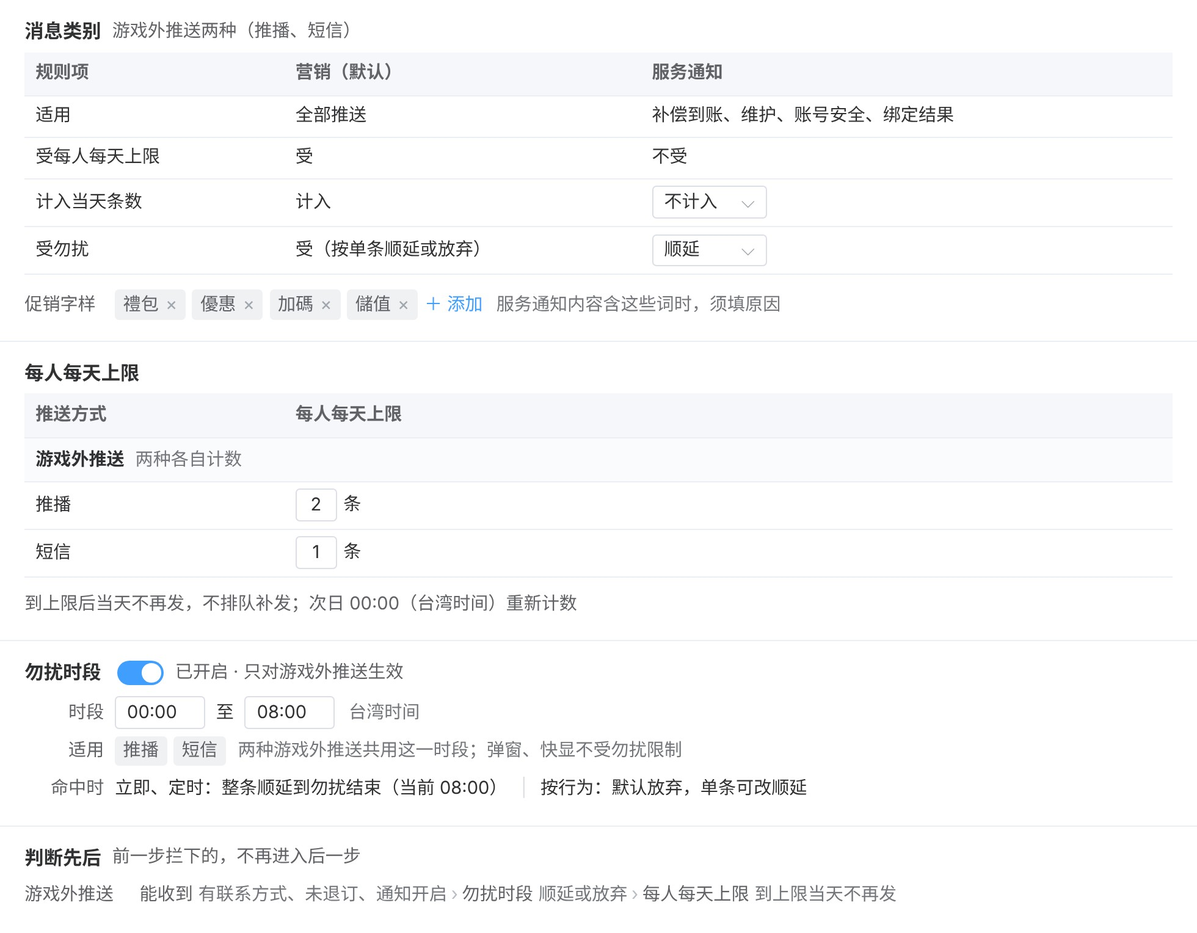
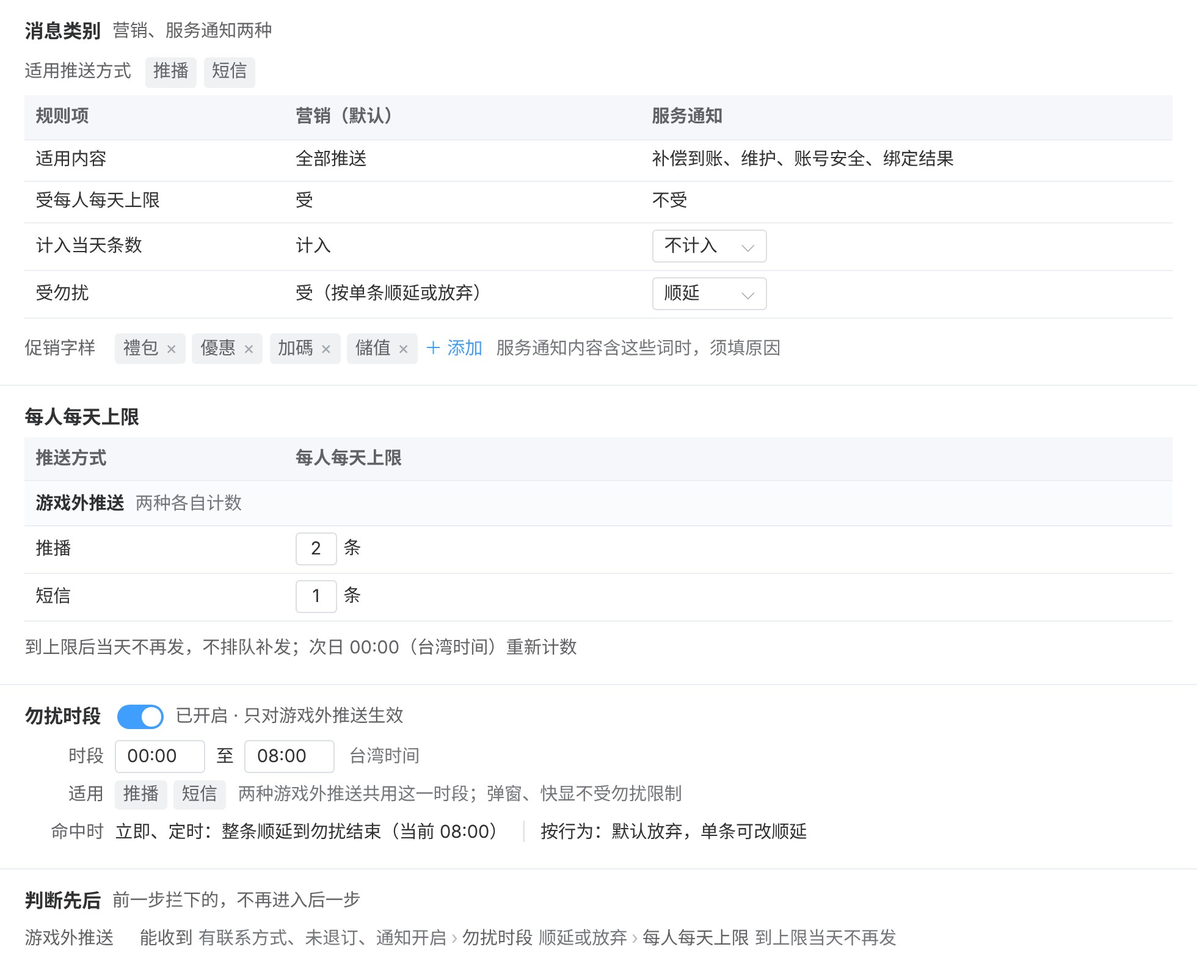
需求评审版第二轮进行中；判例 50、交付前必查第 8 条补充、A91 补三项
Claude-Session: https://claude.ai/code/session_01JtVy4xu4oTwDzwihYuUW45

diff --git a/弹窗标签推送系统/推送系统后台集成需求/需求评审版源.html b/弹窗标签推送系统/推送系统后台集成需求/需求评审版源.html
@@ -92,6 +92,8 @@ table.et td:nth-child(1){white-space:nowrap}
 .amap a.node:hover rect{fill:var(--k)}
 .amap a.node:hover text{fill:#fff}
 .amap a:focus-visible rect{stroke:var(--ink);stroke-width:3}
+.amap .node .tag rect,.amap a.node:hover .tag rect{fill:var(--soft);stroke:#9aa5b1;stroke-width:1}
+.amap .node .tag text,.amap a.node:hover .tag text{font-size:12px;fill:var(--ink2)}
 .amap .ext rect{fill:var(--soft);stroke:#9aa5b1;stroke-width:1.5}
 .amap .en{font-size:16px;font-weight:700}
 .amap .es{font-size:14px;fill:var(--ink2)}
@@ -130,19 +132,19 @@ table.et td:nth-child(1){white-space:nowrap}
   <div class="shots">
     <figure><img src="需求评审版_图/00_后台首页.jpg" alt="后台首页：左侧菜单与概览" style="width:980px"><figcaption>后台首页</figcaption></figure>
   </div>
-  <svg class="amap" viewBox="0 0 980 656" width="980" height="656" aria-label="后台结构图">
+  <svg class="amap" viewBox="0 0 980 674" width="980" height="674" aria-label="后台结构图">
     <defs>
       <marker id="arch-ah" viewBox="0 0 10 10" refX="10" refY="5" markerUnits="userSpaceOnUse" markerWidth="9" markerHeight="9" orient="auto"><path class="ah" d="M0,0 L10,5 L0,10 z"/></marker>
       <clipPath id="arch-k1"><rect x="18" y="144" width="452" height="368" rx="12"/></clipPath>
       <clipPath id="arch-k2"><rect x="510" y="144" width="452" height="368" rx="12"/></clipPath>
-      <clipPath id="arch-k3"><rect x="18" y="532" width="944" height="104" rx="12"/></clipPath>
+      <clipPath id="arch-k3"><rect x="18" y="532" width="944" height="122" rx="12"/></clipPath>
       <clipPath id="arch-g1"><rect x="36" y="246" width="200" height="142" rx="9"/></clipPath>
-      <clipPath id="arch-g3"><rect x="528" y="246" width="200" height="98" rx="9"/></clipPath>
+      <clipPath id="arch-g3"><rect x="528" y="246" width="200" height="118" rx="9"/></clipPath>
     </defs>
     <!-- 框外：会员标签设定（现有后台） -->
     <g class="ext"><rect x="364" y="2" width="252" height="44" rx="8"/><text x="490" y="24" dominant-baseline="central" text-anchor="middle"><tspan class="en">会员标签设定</tspan><tspan class="es">（现有后台）</tspan></text></g>
     <!-- 推送统一后台 -->
-    <rect class="bound" x="1" y="96" width="978" height="558" rx="14"/>
+    <rect class="bound" x="1" y="96" width="978" height="576" rx="14"/>
     <text class="ftitle" x="20" y="120" dominant-baseline="central">推送统一后台</text>
     <!-- 游戏外推送 -->
     <g class="c1">
@@ -161,20 +163,20 @@ table.et td:nth-child(1){white-space:nowrap}
       <rect class="cbg" x="510" y="144" width="452" height="368" rx="12"/><rect class="cband" x="510" y="144" width="452" height="5" clip-path="url(#arch-k2)"/>
       <a class="cname" href="#part2"><text x="528" y="176" dominant-baseline="central">游戏内推送</text></a>
       <text class="csub" x="528" y="201" dominant-baseline="central">玩家在游戏里才看得到</text>
-      <g class="mgrp"><rect class="gbody" x="528" y="246" width="200" height="98" rx="9"/><rect class="gbar" x="528" y="246" width="200" height="40" clip-path="url(#arch-g3)"/><text x="628" y="266" dominant-baseline="central" text-anchor="middle">弹窗</text><rect class="gline" x="528" y="246" width="200" height="98" rx="9"/></g>
-      <a class="node" href="#p6"><rect x="538" y="298" width="180" height="34" rx="8"/><text x="628" y="315" dominant-baseline="central" text-anchor="middle">按玩家分群配置弹窗</text></a>
+      <g class="mgrp"><rect class="gbody" x="528" y="246" width="200" height="118" rx="9"/><rect class="gbar" x="528" y="246" width="200" height="40" clip-path="url(#arch-g3)"/><text x="628" y="266" dominant-baseline="central" text-anchor="middle">弹窗</text><rect class="gline" x="528" y="246" width="200" height="118" rx="9"/></g>
+      <a class="node" href="#p6"><rect x="538" y="298" width="180" height="54" rx="8"/><text x="628" y="316" dominant-baseline="central" text-anchor="middle">按玩家分群配置弹窗</text><g class="tag"><rect x="585" y="328" width="86" height="18" rx="9"/><text x="628" y="337" dominant-baseline="central" text-anchor="middle">现有页面改造</text></g></a>
       <a class="node solo" href="#p9"><rect x="744" y="246" width="200" height="40" rx="8"/><text x="844" y="266" dominant-baseline="central" text-anchor="middle">快显</text></a>
       <a class="node" href="#p7"><rect x="528" y="412" width="416" height="36" rx="8"/><text x="736" y="430" dominant-baseline="central" text-anchor="middle">每人每天弹窗与快显上限</text></a>
       <a class="node" href="#p8"><rect x="528" y="458" width="416" height="36" rx="8"/><text x="736" y="476" dominant-baseline="central" text-anchor="middle">弹窗与快显数据统计</text></a>
     </g>
     <!-- 两类共用 -->
     <g class="c3">
-      <rect class="cbg" x="18" y="532" width="944" height="104" rx="12"/><rect class="cband" x="18" y="532" width="944" height="5" clip-path="url(#arch-k3)"/>
+      <rect class="cbg" x="18" y="532" width="944" height="122" rx="12"/><rect class="cband" x="18" y="532" width="944" height="5" clip-path="url(#arch-k3)"/>
       <a class="cname" href="#part3"><text x="36" y="564" dominant-baseline="central">两类共用</text></a>
-      <a class="node" href="#p10"><rect x="36" y="582" width="215" height="36" rx="8"/><text x="143.5" y="600" dominant-baseline="central" text-anchor="middle">概览</text></a>
-      <a class="node" href="#p11"><rect x="267" y="582" width="215" height="36" rx="8"/><text x="374.5" y="600" dominant-baseline="central" text-anchor="middle">项目目录</text></a>
-      <a class="node" href="#p12"><rect x="498" y="582" width="215" height="36" rx="8"/><text x="605.5" y="600" dominant-baseline="central" text-anchor="middle">玩家查询</text></a>
-      <a class="node" href="#p13"><rect x="729" y="582" width="215" height="36" rx="8"/><text x="836.5" y="600" dominant-baseline="central" text-anchor="middle">操作纪录</text></a>
+      <a class="node" href="#p10"><rect x="36" y="582" width="215" height="54" rx="8"/><text x="143.5" y="609" dominant-baseline="central" text-anchor="middle">概览</text></a>
+      <a class="node" href="#p11"><rect x="267" y="582" width="215" height="54" rx="8"/><text x="374.5" y="609" dominant-baseline="central" text-anchor="middle">项目目录</text></a>
+      <a class="node" href="#p12"><rect x="498" y="582" width="215" height="54" rx="8"/><text x="605.5" y="600" dominant-baseline="central" text-anchor="middle">玩家查询</text><g class="tag"><rect x="562.5" y="612" width="86" height="18" rx="9"/><text x="605.5" y="621" dominant-baseline="central" text-anchor="middle">现有页面改造</text></g></a>
+      <a class="node" href="#p13"><rect x="729" y="582" width="215" height="54" rx="8"/><text x="836.5" y="600" dominant-baseline="central" text-anchor="middle">操作纪录</text><g class="tag"><rect x="793.5" y="612" width="86" height="18" rx="9"/><text x="836.5" y="621" dominant-baseline="central" text-anchor="middle">现有页面改造</text></g></a>
     </g>
     <!-- 标签群组：进入推播、短信、弹窗、快显 -->
     <g class="feed"><path d="M490,46 V222 M136,222 H844"/><path d="M136,222 V246" marker-end="url(#arch-ah)"/><path d="M352,222 V246" marker-end="url(#arch-ah)"/><path d="M628,222 V246" marker-end="url(#arch-ah)"/><path d="M844,222 V246" marker-end="url(#arch-ah)"/><text class="flabel" x="500" y="71" dominant-baseline="central">标签群组</text></g>
@@ -205,7 +207,7 @@ table.et td:nth-child(1){white-space:nowrap}
   <table class="rule">
     <tr><td>现有：在会员标签设定里用会员标签按且、或、排除组合出一组玩家，随标签数据定时更新。</td></tr>
     <tr><td>新增功能：建群组时可在群组之间取交集，如「回流且潜在付费」；每个条件显示人数。</td></tr>
-    <tr><td>新建 6 个标签：<br>· 潜在付费：注册第 7–60 天、从未储值、近 14 天押注合计不低于 20,000（游戏内货币）<br>· 潜在流失两档：近 14 天登录 2–3 天；近 14 天登录 1 天<br>· 近 7 天发生过破产<br>· 新增玩家两档：注册次日未再登录；注册第 3 天未再登录</td></tr>
+    <tr><td>新建 7 个标签：<br>· 潜在付费：注册第 7–60 天、从未储值、近 14 天押注合计不低于 20,000（游戏内货币）<br>· 潜在流失两档：近 14 天登录 2–3 天；近 14 天登录 1 天<br>· 近 7 天发生过破产<br>· 注册后未再登录两档：注册次日未再登录；注册第 3 天未再登录<br>· 随机分桶号：由会员编号和实验名算出的 0–99，每位玩家在同一实验里固定一个号；用来分实验组与对照组（见第 6 页）</td></tr>
     <tr><td>在用的标签群组不能停用或删除；修改在用的群组时，保存前列出受影响的推播、短信、快显和弹窗规则。</td></tr>
   </table>
   <h4 class="rg">发送对象</h4>
@@ -240,7 +242,7 @@ table.et td:nth-child(1){white-space:nowrap}
   </div>
 
   <details class="rules">
-    <summary><span class="rt">业务规则</span><span class="rgs">触发与对象 · 提醒次数与间隔 · 勿扰与在线</span></summary>
+    <summary><span class="rt">业务规则</span><span class="rgs">触发与对象 · 提醒间隔 · 勿扰与在线</span></summary>
     <div class="rbody">
   <h4 class="rg">触发与对象</h4>
   <table class="rule">
@@ -249,11 +251,10 @@ table.et td:nth-child(1){white-space:nowrap}
     <tr><td>生效期间从开始日期起运行；不填结束日期则长期运行。</td></tr>
     <tr><td>发送对象为触发的玩家，可再限定标签群组、加排除群组，规则同第 1 页；确认前显示预计每天触发和发出的人次。</td></tr>
   </table>
-  <h4 class="rg">提醒次数与间隔</h4>
+  <h4 class="rg">提醒间隔</h4>
   <table class="rule">
-    <tr><td>一次触发后最多提醒几次，默认 1 次；同一玩家任意两次提醒之间至少隔几小时，默认 24 小时，不论是否同一次触发。</td></tr>
-    <tr><td>提醒次数大于 1 时，后续提醒在间隔已到、且触发条件仍成立（如礼包仍未购买）时再发。</td></tr>
-    <tr><td>被每人每天上限拦下、勿扰放弃、因玩家在线不发的，不算一次提醒，间隔也不起算；该玩家下一次触发（如下一个礼包快到期）时照常提醒。</td></tr>
+    <tr><td>同一玩家两次提醒之间至少隔几小时，默认 24 小时。</td></tr>
+    <tr><td>被每人每天上限拦下、勿扰放弃、因玩家在线不发的，间隔不起算。</td></tr>
   </table>
   <h4 class="rg">勿扰与在线</h4>
   <table class="rule">
@@ -355,7 +356,7 @@ table.et td:nth-child(1){white-space:nowrap}
   <h4 class="rg">内容与计费</h4>
   <table class="rule">
     <tr><td>内文先选消息类别（营销或服务通知）；输入时显示字数与则数，超出一则时提示；营销短信自动加品牌前缀【會員通知】和退订说明。</td></tr>
-    <tr><td>链接可选外部网页或游戏内页面；外部网页自动换成短链，点击按人记录。</td></tr>
+    <tr><td>链接可选外部网页或游戏内页面；外部网页自动换成短链，统计点击次数。</td></tr>
     <tr><td>按则计费：70 字以内计 1 则；超过 70 字时每 67 字计 1 则。</td></tr>
     <tr><td>品牌前缀和退订说明计入字数。</td></tr>
   </table>
@@ -393,8 +394,8 @@ table.et td:nth-child(1){white-space:nowrap}
     <tr><td>每条规则选弹窗类型（活动类、储值类）和位置：大厅弹窗（进入大厅时自动弹出）、破产弹窗（玩家破产时弹出）；并设每次最多弹出几个。</td></tr>
     <tr><td>弹窗排序是本规则里按先后弹出的清单，清单里的每一项叫排序项，对应一个活动或礼包，先后可调整。</td></tr>
     <tr><td>每个排序项设弹出时机、弹窗次数、是否「弹出后终止本次后续弹窗」、是否不可关闭（玩家须点按钮）；排序项自己的冷却时间沿用现行设置。</td></tr>
-    <tr><td>优先级数字越小越先弹，1 最高。</td></tr>
-    <tr><td>高级设置里设互斥组、实验分组、每人总次数和关闭后冷却（玩家直接关掉本规则的弹窗后，隔多久本规则才再弹）。</td></tr>
+    <tr><td>同一位置、同一类型有多条规则时，优先级数字越小越先被选中，1 最高。</td></tr>
+    <tr><td>高级设置里设互斥组、每人总次数和关闭后冷却（玩家直接关掉本规则的弹窗后，隔多久本规则才再弹）。</td></tr>
   </table>
   <h4 class="rg">对象与预计人数</h4>
   <table class="rule">
@@ -420,7 +421,7 @@ table.et td:nth-child(1){white-space:nowrap}
   </table>
   <h4 class="rg">实验</h4>
   <table class="rule">
-    <tr><td>实验把玩家分成实验组与对照组，每位玩家固定在一组；对照组的玩家可设为改看下一条命中的规则，或不弹。</td></tr>
+    <tr><td>实验组与对照组用标签群组分：按随机分桶号（每位玩家在同一实验里固定的 0–99 号，见第 1 页）建两个群组，如 0–49、50–99，两组各配一条规则，在单条规则数据（第 8 页）里对比。</td></tr>
   </table>
     </div>
   </details>
@@ -436,7 +437,7 @@ table.et td:nth-child(1){white-space:nowrap}
   </div>
 
   <details class="rules">
-    <summary><span class="rt">业务规则</span><span class="rgs">上限 · 判断先后 · 例外</span></summary>
+    <summary><span class="rt">业务规则</span><span class="rgs">上限 · 判断顺序 · 例外</span></summary>
     <div class="rbody">
   <h4 class="rg">上限</h4>
   <table class="rule">
@@ -444,7 +445,7 @@ table.et td:nth-child(1){white-space:nowrap}
     <tr><td>到上限后当天不再弹出或显示，次日 00:00（台湾时间）重新计数。</td></tr>
     <tr><td>被上限截掉的排序项不消耗次数与冷却，之后不补弹。</td></tr>
   </table>
-  <h4 class="rg">判断先后</h4>
+  <h4 class="rg">判断顺序</h4>
   <table class="rule">
     <tr><td>依次判断投放条件（规则的对象、弹出时机、生效期间）、排序项的次数与冷却（沿用现行设置）、每人每天上限；超出上限的排序项被截掉。</td></tr>
   </table>
@@ -467,9 +468,9 @@ table.et td:nth-child(1){white-space:nowrap}
   </div>
 
   <details class="rules">
-    <summary><span class="rt">业务规则</span><span class="rgs">整个位置 · 单条规则 · 改动与发版</span></summary>
+    <summary><span class="rt">业务规则</span><span class="rgs">按位置 · 单条规则 · 改动与发版</span></summary>
     <div class="rbody">
-  <h4 class="rg">整个位置</h4>
+  <h4 class="rg">按位置</h4>
   <table class="rule">
     <tr><td>按位置统计大厅弹窗、破产弹窗、快显的曝光人数、曝光、点击、点击率，与前一个同样长度的周期对比；合计行的曝光人数按玩家去重。</td></tr>
     <tr><td>每个位置一张趋势图，按日显示曝光与点击率；图上标出这个位置上所有规则的改动和客户端发版。</td></tr>
@@ -480,7 +481,7 @@ table.et td:nth-child(1){white-space:nowrap}
     <tr><td>漏斗：一条规则从目标人数、进入弹窗位置、符合条件、曝光到点击，每一步少了多少。</td></tr>
     <tr><td>趋势图按日显示这条规则的曝光与点击率，图上标出这条规则每一次保存的改动和客户端发版；相邻两次改动之间画出这段时间的平均点击率。</td></tr>
     <tr><td>点击后 24 小时内的领取、购买，按来源弹窗规则记录；只作参考，不画进漏斗。<span class="why">领取、购买还受弹窗以外的因素影响。</span></td></tr>
-    <tr><td>可拆分：按排序项、按人群、按平台、按实验组与对照组。</td></tr>
+    <tr><td>可拆分：按排序项、按人群、按平台。</td></tr>
   </table>
   <h4 class="rg">改动与发版</h4>
   <table class="rule">
@@ -511,7 +512,7 @@ table.et td:nth-child(1){white-space:nowrap}
   </table>
   <h4 class="rg">发送时间</h4>
   <table class="rule">
-    <tr><td>立即、定时或按行为；按行为的触发行为、提醒次数与间隔同第 2 页。</td></tr>
+    <tr><td>立即、定时或按行为；按行为的触发行为与提醒间隔同第 2 页。</td></tr>
   </table>
     </div>
   </details>
@@ -550,6 +551,8 @@ table.et td:nth-child(1){white-space:nowrap}
   <h4 class="rg">指标算法</h4>
   <table class="rule">
     <tr><td>游戏外推送从发送算起，点击率＝点击÷发送；游戏内推送从曝光算起，点击率＝点击÷曝光；两层分开统计。</td></tr>
+    <tr><td>到达率＝到达÷可确认到达的发送，iOS 未接入的部分不进分母（见第 4 页）。</td></tr>
+    <tr><td>人均每天收到几条＝当天收到推播或短信的玩家平均每人收到几条；人均每天弹窗曝光几个＝当天看到弹窗的玩家平均每人看到几个；都取所选期间每天的平均。</td></tr>
   </table>
     </div>
   </details>
@@ -595,7 +598,7 @@ table.et td:nth-child(1){white-space:nowrap}
   </div>
 
   <details class="rules">
-    <summary><span class="rt">业务规则</span><span class="rgs">查询与结果 · 原有页面</span></summary>
+    <summary><span class="rt">业务规则</span><span class="rgs">查询与结果 · 现有页面移入</span></summary>
     <div class="rbody">
   <h4 class="rg">查询与结果</h4>
   <table class="rule">
@@ -603,7 +606,7 @@ table.et td:nth-child(1){white-space:nowrap}
     <tr><td>推播、短信、弹窗、快显各自能否收到，不能时写原因（如通知关闭、没有手机号）；今天已收几条、上限多少、最近一次收到的时间。</td></tr>
     <tr><td>近 30 天推播、短信、快显的每一条和每次弹窗的结果与原因，如被每人每天上限拦下时写明名额被哪几条占用；弹窗可展开看每个排序项弹没弹。</td></tr>
   </table>
-  <h4 class="rg">原有页面</h4>
+  <h4 class="rg">现有页面移入</h4>
   <table class="rule">
     <tr><td>现有「玩家弹窗顺序查询」整页移入，并扩展为推播、短信、弹窗、快显四种推送的查询。</td></tr>
   </table>

diff --git a/弹窗标签推送系统/推送系统后台集成需求/需求评审版_原型/04_上限勿扰.html b/弹窗标签推送系统/推送系统后台集成需求/需求评审版_原型/04_上限勿扰.html
@@ -17,11 +17,12 @@ body{font-family:"Inter","Noto Sans CJK SC","PingFang SC","Microsoft YaHei",sans
 <body>
 <div class="shot" style="width:980px"><div class="z"><div class="win"><div class="fig">
   <div class="sec" style="padding:12px 18px 12px">
-    <div class="sh" style="height:auto;min-height:22px;flex-wrap:wrap;row-gap:2px">消息类别<span style="font-weight:400;font-size:13px;color:var(--ink2)">游戏外推送两种（推播、短信）</span></div>
+    <div class="sh" style="height:auto;min-height:22px;flex-wrap:wrap;row-gap:2px">消息类别<span style="font-weight:400;font-size:13px;color:var(--ink2)">营销、服务通知两种</span></div>
+    <div class="f" style="height:30px"><label style="width:auto;padding-right:10px;color:var(--ink2)">适用推送方式</label><span class="tg nx">推播</span><span class="tg nx">短信</span></div>
     <table class="tb" style="margin-top:2px">
       <colgroup><col style="width:190px"><col><col></colgroup>
       <tr><th>规则项</th><th>营销（默认）</th><th>服务通知</th></tr>
-      <tr><td>适用</td><td>全部推送</td><td>补偿到账、维护、账号安全、绑定结果</td></tr>
+      <tr><td>适用内容</td><td>全部推送</td><td>补偿到账、维护、账号安全、绑定结果</td></tr>
       <tr><td>受每人每天上限</td><td>受</td><td>不受</td></tr>
       <tr><td>计入当天条数</td><td>计入</td><td><span class="in" style="width:84px">不计入<span class="dn">⌵</span></span></td></tr>
       <tr><td>受勿扰</td><td>受（按单条顺延或放弃）</td><td><span class="in" style="width:84px">顺延<span class="dn">⌵</span></span></td></tr>

diff --git a/弹窗标签推送系统/推送系统后台集成需求/需求评审版_原型/03_按行为.html b/弹窗标签推送系统/推送系统后台集成需求/需求评审版_原型/03_按行为.html
@@ -23,7 +23,7 @@ body{font-family:"Inter","Noto Sans CJK SC","PingFang SC","Microsoft YaHei",sans
         <div class="f"><label style="width:78px">触发条件</label>礼包剩余<span class="num">2</span>小时时发送</div>
         <div class="f" style="padding-left:78px"><span class="ck">✓</span>只发给尚未购买该礼包的玩家</div>
         <div class="f"><label style="width:78px">生效期间</label><span class="in" style="width:104px">2026-10-02</span><span style="margin:0 8px">至</span><span class="in ph" style="width:104px">结束（选填）</span><span class="mute" style="margin-left:8px">不填则长期运行</span></div>
-        <div class="f"><label style="width:78px">提醒次数</label>每次触发最多提醒<span class="num">1</span>次，同一玩家两次提醒至少间隔<span class="num">24</span>小时</div>
+        <div class="f"><label style="width:78px">提醒间隔</label>同一玩家两次提醒至少间隔<span class="num">24</span>小时</div>
         <div class="f"><label style="width:78px">勿扰时段</label>00:00–08:00　命中时<span class="in" style="margin-left:8px;width:110px">放弃发送<span class="dn">⌵</span></span></div>
         <div class="f"><label style="width:78px">玩家在线</label><span class="in" style="width:110px">照发<span class="dn">⌵</span></span><span class="mute" style="margin-left:8px">另一选项：不发（由游戏内承接）</span></div>
       </div>

diff --git a/弹窗标签推送系统/推送系统后台集成需求/需求评审版_原型/17_快显.html b/弹窗标签推送系统/推送系统后台集成需求/需求评审版_原型/17_快显.html
@@ -44,7 +44,7 @@ body{font-family:"Inter","Noto Sans CJK SC","PingFang SC","Microsoft YaHei",sans
     <div class="sh" style="height:28px">发送时间<span class="seg" style="margin-left:12px;font-weight:400"><span style="border-radius:3px 0 0 3px">立即</span><span style="border-radius:0">定时</span><span class="on" style="border-radius:0 3px 3px 0">按行为</span></span></div>
     <div class="f"><label style="width:70px"><span class="rq">*</span>触发行为</label><span class="in" style="width:180px">通行证升级<span class="dn">⌵</span></span><span style="margin:0 8px 0 24px;color:var(--ink2)">生效期间</span><span class="in" style="width:220px">2026-10-03　至　2026-12-31</span></div>
     <div class="f"><label style="width:70px">触发条件</label>升级时等级不超过<span class="num">20</span></div>
-    <div class="f"><label style="width:70px">提醒次数</label>每次触发最多提醒<span class="num">1</span>次，同一玩家两次提醒至少间隔<span class="num">24</span>小时</div>
+    <div class="f"><label style="width:70px">提醒间隔</label>同一玩家两次提醒至少间隔<span class="num">24</span>小时</div>
     <div class="f"><label style="width:70px">勿扰时段</label><span style="color:var(--ink2)">不适用：游戏内推送不受勿扰时段限制</span></div>
   </div>
 

diff --git a/弹窗标签推送系统/推送系统后台集成需求/需求评审版_原型/11_保存确认.html b/弹窗标签推送系统/推送系统后台集成需求/需求评审版_原型/11_保存确认.html
@@ -24,7 +24,7 @@ body{font-family:"Inter","Noto Sans CJK SC","PingFang SC","Microsoft YaHei",sans
         <div style="font-size:16px;font-weight:700;color:var(--ink);margin:2px 0 4px">预计 2,510 人</div>
         <table class="tb" style="margin-top:4px">
           <tr><th>重叠的上架规则</th><th style="text-align:right">人数</th><th style="white-space:nowrap">这些人弹</th></tr>
-          <tr><td>12 活动类·新增玩家<span class="mute">　优先级 1</span></td><td style="text-align:right">610</td><td style="white-space:nowrap">规则 12</td></tr>
+          <tr><td>12 活动类·注册后未再登录<span class="mute">　优先级 1</span></td><td style="text-align:right">610</td><td style="white-space:nowrap">规则 12</td></tr>
           <tr><td>13 活动类·回流<span class="mute">　优先级 2</span></td><td style="text-align:right">1,320</td><td style="white-space:nowrap">规则 13</td></tr>
           <tr><td>14 活动类·潜在流失<span class="mute">　优先级 3</span></td><td style="text-align:right">420</td><td style="white-space:nowrap">规则 14</td></tr>
           <tr><td>5 活动类·其余<span class="mute">　优先级 4 → 5</span></td><td style="text-align:right">2,510</td><td style="white-space:nowrap;font-weight:600">本规则</td></tr>

diff --git a/弹窗标签推送系统/分析/A91_评审版功能成本收益.md b/弹窗标签推送系统/分析/A91_评审版功能成本收益.md
@@ -4,7 +4,7 @@
 依据：Dk 10/20「功能的成本与收益是不是合理的，原型设计里需要考虑清楚。比如恢复版本1的设置，这个功能我不知道成本如何，你可以自行评估」「所有的后台功能都是按照是否值得来确定设计的」；写作标准第 172 行「每个功能先问：现实中谁做、做几次、开发要多久，再与人工做法比较；一次性的工作、人工几分钟能做完的事，不做成功能。按个案判断，不设硬线」；交付前必查第 8 条。
 开发量是我方按同类后台估的量级（小：约 2 人日内；中：约 3–10 人日；大：10 人日以上），不是研发估时；研发评审时以研发估时为准。本文件是决定记录，不进评审材料（评审材料只写留下的功能，不写取舍）。
 
-## 一、改掉或换掉的（8 项）
+## 一、改掉或换掉的（11 项）
 
 | 功能（现稿位置） | 谁用、多常用 | 开发量 | 人工做法或更便宜的做法 | 结论 |
 |---|---|---|---|---|
@@ -13,10 +13,13 @@
 | 改动前后对比（第 8 页「选操作纪录里的一次改动，对比改动前后几天」） | 同上，看某次改动的效果 | 中：选改动、取前后窗口、对比表 | 同一张趋势图上已标出这个位置所有规则的改动，改动前后的走势直接看得到 | **换**，并入整个位置的趋势图 |
 | 同期发版时提示不能单独归因（第 8 页） | 同上 | 小到中：要判断同期有哪些发版与改动 | 发版也画成趋势图上的标记，同期有没有别的变化一眼看到 | **换**，发版作为趋势图标记 |
 | 按规则版本、客户端版本分开看数据（第 8 页「版本」第二条） | 同上 | 中：数据按两种版本另做聚合 | 趋势图上的改动与发版标记把时间分成段，每段平均值已画出 | **删**分开看；旧数据照样保留 |
-| 单条规则的 7 种拆分（第 8 页：按日、按小时、按平台与设备、按客户端版本、按人群、按实验组与对照组、按排序项） | 运营调规则 | 每多一种拆分多一份聚合与一个页签 | 按日 → 趋势图；按排序项（调先后顺序要看）、按人群（核心①「数据……按人群、按单条」，Dk 10/18 定的核心）、实验组与对照组（有实验才能看出真实效果）、按平台（某一端显示失败时要看）留下；按小时（弹窗在进入大厅、破产时弹，不按时段设置）、按客户端版本（发版已是趋势图标记）用得少，需要时请数据组查 | **减为 4 种**：按排序项、按人群、按平台、实验组与对照组 |
+| 单条规则的 7 种拆分（第 8 页：按日、按小时、按平台与设备、按客户端版本、按人群、按实验组与对照组、按排序项） | 运营调规则 | 每多一种拆分多一份聚合与一个页签 | 按日 → 趋势图；按排序项（调先后顺序要看）、按人群（核心①「数据……按人群、按单条」，Dk 10/18 定的核心）、按平台（某一端显示失败时要看）留下；按小时（弹窗在进入大厅、破产时弹，不按时段设置）、按客户端版本（发版已是趋势图标记）用得少，需要时请数据组查 | **减为 3 种**：按排序项、按人群、按平台（实验组与对照组见下面「内置实验分组」一行） |
 | 重叠规则「每天互相接替的人数」（第 6 页重叠一条；截图 11「接替（日均）」） | 运营保存弹窗规则时 | 大：要按每位玩家一天的弹出过程模拟，跨全部同位置规则 | 重叠人数与这些人弹哪一条已足够判断要不要加排除群组；接替的人数运营看了也难判断怎么改 | **删**接替人数，留重叠人数与弹哪一条 |
 | 保存确认里「多截掉的项目个数」（截图 11「多截掉 420 项」） | 同上 | 大：要模拟全部规则在每人每天上限下的截断 | 弹窗与快显数据统计页已有每天多少人碰到上限（第 8 页）；上限设置页可调 | **删** |
 | 项目改期时逐条选「平移或保持」与「全部平移」（第 11 页改期联动第一条，截图 18） | 运营改活动起止时间；少见，估计每月几次，每次牵动几条推送与弹窗 | 中：逐条选项、批量平移、已发出的不能平移等校验 | 按相对活动时间设的推送本来就自动跟随；写成具体时刻的，确认框里逐条列出并带「去修改」，运营逐条改，每条一分钟左右 | **改**为只列出受影响的推送与弹窗规则：相对时间的自动跟随，具体时刻的标出由运营逐条改 |
+| 一次触发后多次提醒（第 2 页「一次触发后最多提醒几次」及后续提醒规则；第 9 页快显同） | 运营配按行为推送；如礼包快到期提醒两次 | 中：每次触发要存状态、到时重判条件、排队发送 | 另建一条触发条件不同的按行为推送（如礼包剩 12 小时、剩 2 小时各一条），配置几分钟，文案还能各写各的 | **删**，只留「同一玩家两次提醒至少隔几小时」（审读 10/20 下午提出，主对话核定） |
+| 弹窗规则里内置实验分组（第 6 页「高级设置里设……实验分组」「对照组可设为改看下一条或不弹」；数据拆分「实验组与对照组」） | 要确定改动效果时；少见 | 中到大：实验实体、分组、对照组处理、分组对比页 | 设计主线 10/19 已定系统标签「随机分桶号」（会员编号与实验名计算 0–99，会员编号尾数有偏差不用）：用它建两个标签群组作实验组与对照组，两组各配一条规则，用单条规则数据对比；截图 10、14 本来就是这么画的 | **删**内置实验，改为用随机分桶号标签群组分组；数据拆分去掉「实验组与对照组」（审读提出，主对话核定） |
+| 短信外部链接点击按人记录（第 5 页「点击按人记录」） | 每条营销短信 | 中：每位收件人生成不同短链并回传 | 短信效果按发送后 24 小时内登录判定（已定事项第 3 条），玩家多直接开游戏不点链接；短链服务自带点击总数 | **改**为只统计点击次数（审读提出，主对话核定） |
 
 ## 二、留下的（逐个三问）
 
@@ -30,7 +33,7 @@
 | 1 | 多群组取并集去重、排除群组、固定与默认排除 | 每次发送 | 小 | 无 | 留 |
 | 1 | 确认前逐层显示预计发出 | 每次发送 | 中 | 无 | 留，改为分层条形图 |
 | 1 | 测试账号先发、发给全部玩家多一步核对、发送中可停止 | 每次发送 | 小 | 无 | 留 |
-| 2 | 6 种触发行为、触发条件、生效期间、提醒次数与间隔、勿扰与在线的处理 | 运营配自动推送 | 中到大（核心功能） | 现在写死在服务端，改要发版 | 留 |
+| 2 | 6 种触发行为、触发条件、生效期间、提醒间隔、勿扰与在线的处理 | 运营配自动推送 | 中到大（核心功能） | 现在写死在服务端，改要发版 | 留 |
 | 2 | 预计每天触发与发出人次 | 新建按行为推送时 | 中：按历史事件数估 | 请数据组查，等几小时 | 留 |
 | 2 | 选了在线不发、又没有同事件快显或弹窗时保存提示 | 新建按行为推送时 | 小：按触发行为与所属活动查 | 运营自己检查，容易漏 | 留 |
 | 3 | 消息类别、每人每天上限、勿扰、单条例外须填原因、促销字样发服务通知须填原因 | 设置一次，单条例外偶尔 | 小到中 | 无 | 留 |
@@ -41,7 +44,6 @@
 | 5 | 字数与则数、品牌前缀与退订、短链、确认前人数与则数 | 每次发短信 | 小到中 | 无 | 留 |
 | 6 | 规则类型与位置、弹窗排序、排序项设置、优先级 | 每次配弹窗（现有功能搬入） | 小 | — | 留 |
 | 6 | 互斥组、每人总次数、关闭后冷却 | 配弹窗时；核心②「弹窗先后与互斥、不重复打扰」（Dk 10/18） | 中 | 无 | 留 |
-| 6 | 实验组与对照组 | 要确定改动效果时 | 中到大 | 无（趋势图标记只能看出前后变化，不能单独归因） | 留 |
 | 6 | 预计人数、注明固定排除约多少人 | 每次配弹窗 | 中 | 无 | 留 |
 | 6 | 重叠人数与这些人弹哪一条 | 每次保存 | 中：按群组交集算 | 运营自己比对群组，难 | 留 |
 | 6 | 当天快显提示过的同一活动或礼包跳过 | 自动 | 中 | 无 | 留（不重复打扰） |

diff --git a/弹窗标签推送系统/规则与交接/交付前必查.md b/弹窗标签推送系统/规则与交接/交付前必查.md
@@ -15,7 +15,7 @@
 | 5 | **篇幅**：〔规则与交接/写作标准_合并版.md:62〕「首层（结论、问题标题、核心卡）3 分钟内读完；正文 5 分钟读完、掌握 80%，不含折叠区和附录；需求文档、规划表、附录不受时长限制」；读者可用时间见记忆 size-deliverables-to-reader-time | 写作标准第 62 行；记忆 size-deliverables-to-reader-time | 写明读者与可用时间；`python3 _scripts/an_可读字数.py` 量可读字数 |
 | 6 | **阅读体验优先**：〔规则与交接/写作标准_合并版.md:50〕「阅读体验优先于精简篇幅：精简没错，但不能精简到牺牲阅读体验，这是界限」 | 写作标准第 50 行；Dk 10/19 | 同第 1、3 条的读者测试 |
 | 7 | **读者最先看的地方**（检查做法）：首屏、各级标题、标题下第一行、页头、结尾这几处，按第 1–4 条逐处查 | 判例 46、47；Dk 10/19「你需要确保没有这样的漏洞发生」 | `python3 _scripts/an_读者要读的.py <成品> <摘录.md>` 抽出这几处（一般一两千字）；派一位无上下文读者（model: "sonnet"）对照判例逐项找问题；主对话发给 Dk 前自己读这份摘录 |
-| 8 | **每个功能先问**（需求、设计类材料）：〔规则与交接/写作标准_合并版.md:172〕「每个功能先问：现实中谁做、做几次、开发要多久，再与人工做法比较；一次性的工作、人工几分钟能做完的事，不做成功能。按个案判断，不设硬线」 | 写作标准第 172 行；判例 48；Dk 10/19（答复登记「写死内容迁移不做成后台功能」） | 列出材料里的每个功能，逐个写出这三问的答案和人工做法；写不出开发成本与人工做法对比的，补上或删去该功能 |
+| 8 | **每个功能先问**（需求、设计类材料）：〔规则与交接/写作标准_合并版.md:172〕「每个功能先问：现实中谁做、做几次、开发要多久，再与人工做法比较；一次性的工作、人工几分钟能做完的事，不做成功能。按个案判断，不设硬线」 | 写作标准第 172 行；判例 48、50；Dk 10/19（答复登记「写死内容迁移不做成后台功能」）；Dk 10/20（任务清单第 268 行） | 列出材料里的每个功能，逐个写出这三问的答案和人工做法；写不出开发成本与人工做法对比的，补上或删去该功能；审读列出的疑似不值得做的功能，主对话交付前逐个定结论并写进决定记录，不留「待判」（判例 50） |
 | 9 | **样章关卡**（检查做法，铺开全稿之前做）：由没写稿、也没写任务说明的子任务核对，只给它写作标准原文、对应类型卡（`类型卡/`）、相关 Dk 原话和样章，不给研究建议与任务说明；它对类型卡「必须做到」「不写」两节逐条写过／不过，不过的引出样章原文。不过项主对话不能否决，除非引出 Dk 原话（注答复登记日期）。第 1、3 条的读者测试另做，看得懂不能代替这一项 | `分析/根因_未按要求写_1019.md`（10/19 样章只测看懂，「取舍」块被读者复述出来反而算通过）；判例 40 与矫枉过正记录第 10 行（审读查出的问题被主对话否决） | 审读回报逐条「过／不过（样章原文）」；有不过项，改完再核一次，过了才铺开全稿；全稿完成后本清单第 1–8 条再跑一遍 |
 
 交付时在回报里逐条写「过／不过（证据）」。主对话发给 Dk 前，亲自核第 1 条的读者测试结果、第 9 条的样章核对结果，并自己读第 7 条的摘录。写给子任务的要求只写要达到的效果，不写要加进材料的具体句子，免得被照字面加进去（判例 47）。

diff --git a/弹窗标签推送系统/分析/需求评审版_改版记录.md b/弹窗标签推送系统/分析/需求评审版_改版记录.md
@@ -35,6 +35,16 @@
 
 核对员反馈后补改（只动 18a、19 的源文件与 jpg，18 无需改）：① 18a 万圣节榜「被引用」3 → 5，与 18 列出的 5 项一致；② 19 名额占用写成名称「限时加码礼包未购买提醒（09:30）」，不再只写编号 31；③ 19 下方近 30 天记录补一行 10/12 12:00 快显「通行证升级提示」已显示，与上表快显「最近一次收到 12:00、已显示 1／3 次」对上；④ 19 上表短信行由「有手机号」改为「不能收到：手机号已停用（10/12 10:00 短信服务商退回）」，与下方记录一致，最近一次收到仍为 10/09 19:00（停用之前）。上面 18a「数字同旧图」、19 的差异说明以本条为准。
 
+第二轮（照 A91 第一节新加的三行与主对话的第二轮指示，只动 03、04、11、17 的源文件与 jpg）：
+- 03_按行为：「提醒次数　每次触发最多提醒 1 次，同一玩家两次提醒至少间隔 24 小时」→「提醒间隔　同一玩家两次提醒至少间隔 24 小时」，不再有每次触发最多提醒几次。
+- 17_快显：同 03，改为「提醒间隔　同一玩家两次提醒至少间隔 24 小时」。
+- 04_上限勿扰：标题「消息类别　游戏外推送两种（推播、短信）」→「消息类别　营销、服务通知两种」，下面另起一行「适用推送方式　推播　短信」；表里行名「适用」→「适用内容」，避免和推送方式混。
+- 11_保存确认：规则 12 的名称「活动类·新增玩家」→「活动类·注册后未再登录」，不会被读成全部新玩家（对应正文新标签「新增玩家两档」改名后的叫法，具体用哪个名字以正文为准，要改只改这一处再重截）。
+- 10_规则编辑：本来就没有「实验分组」，高级设置只写「已设 2 项（每人总次数、关闭后冷却）」，不用改；「潜在流失·实验组」是标签群组名，按指示保留。
+- 16_短信：图里没有「按人记录」，不用改。01、02：没有「新增玩家两档」这类标签名，也没有「随机分桶号」，不用改。
+- 12 个源文件 grep「提醒次数、最多提醒、实验分组、按人记录、新增玩家、随机分桶」均为 0。
+- 不在我名下、但同样会被这轮指示碰到的：B 的 14_单条规则数据里有「按实验组与对照组」页签、标题「破产储值弹窗（实验组）」；13_游戏内数据里有「12 活动类·新增玩家」。A91 新加的实验分组一行把数据拆分里的「实验组与对照组」一并删了，13 的规则名也与 11 对不上，请主对话转给 B。19 里「活动类·潜在流失（实验组）」是群组名，保留。
+
 ### B 图表（样章）
 
 做法：新写 `_scripts/an_评审版图表.py`（示例数据写在脚本里，算出内联 SVG 写进 `需求评审版_原型/14_单条规则数据.html`、`13_游戏内数据.html`；生成时打印自洽检查，有 ✘ 退出码 1）和 `需求评审版_原型/_图表.css`（图表共用样式）；`node _scripts/pl_评审版截图.mjs 14_单条规则数据 13_游戏内数据` 渲染。`.shot` 宽 980，里面一层 `zoom:1.12`、字体 Inter + Noto Sans CJK SC，与 A 的截图同一字号观感。趋势图是可复用函数 `trend_svg()`（后面概览、每人每天收到几条接着用）。配色取原型样式：主数据用 `--acc` 蓝，每日曝光柱与每日点击率线用浅灰、浅蓝作背景，规则改动为深灰实线，客户端发版为琥珀色虚线并带「发版」字样（不只靠颜色区分）。

diff --git a/弹窗标签推送系统/规则与交接/判例库/判例_50_展示形式沿用旧稿与疑似功能未定.md b/弹窗标签推送系统/规则与交接/判例库/判例_50_展示形式沿用旧稿与疑似功能未定.md
@@ -1,0 +1,24 @@
+# 判例 50：展示形式沿用旧稿没按内容选，审读标出的疑似不值得功能留着没定
+
+| 项 | 内容 |
+|---|---|
+| 类型 | 原型与评审材料（展示形式；功能取舍） |
+| 你提出意见的时间 | 2026-10-20 |
+| 当时原文 | `推送系统后台集成需求/3_原型_需求评审版.html` 10/20 上午版：开屏「后台结构」只有一张卡片式示意（两栏标签按钮）；13 页业务规则平铺在截图下；概览、每人每天收到几条、单条推送、游戏内推送数据、单条规则数据 5 张截图是表格加文字；单条规则数据用「版本 1／版本 2」两列对比表加「恢复版本 1 的设置」按钮。审读（`分析/审读_1020.md`）已把改动前后对比、恢复旧版本、保存确认多截项数、三种角色列为疑似「人工几分钟能做、开发成本偏高」，改版记录写「属功能取舍，需 Dk 或主对话判」后原样交付 |
+| 考试 | 待考 |
+
+## 你的原话
+「后台结构里要用原型截图和简洁的展示方式两个，但目前我只看到一个而且还是不怎么好的、没有认真思考过的、很粗糙随意的内容」「业务规则需要折叠起来」「起码数据部分是要用图表展示而不是纯表格与文字的形式」「比如恢复版本1的设置，这个功能我不知道成本如何，你可以自行评估」「版本对比用了一个表格加纯文字的形式，非常的不好而且效率低……所有的后台功能都是按照是否值得来确定设计的」（任务清单第 268 行）
+
+## 错在哪
+- 截图直接从 28 页原型裁来，原型数据页本来是表格，改版只改字、不问「这块内容用什么形式最好读」；10/20 上午 Dk 说「最好的是原型截图或者简洁的结构展示方式，可以都贴出来」，我方只做了一种，并把画法限成「不画现有系统、不加图例」，结果图里只剩一排排标签。
+- 交付前必查第 8 条已要求逐个功能比开发成本与人工做法，审读也已列出疑似项，主对话没有当场定，交给了「Dk 或主对话判」。来由（推断）：把功能取舍当成要 Dk 定的业务方向，其实是方案类、主对话该定的事。
+
+## 改对后
+后台结构放后台首页截图（菜单全部展开）＋信息架构图（两类两栏、管整类的页面画成横条、会员标签设定在框外以标签群组连入）；业务规则默认折叠，折叠栏列小组名；7 张数据截图改为图表；单条规则数据用一张趋势图标出每次改动与发版、每段画平均点击率，取代版本对比表与恢复按钮；逐个功能的成本收益写进 `分析/A91_评审版功能成本收益.md`，删或换 11 项。
+
+## 可泛化的一层（推断）
+沿用旧稿的图或块时，按内容重新选形式（数据先想图表、结构先想截图加示意、细则先想折叠），不因为旧稿就是那样而保留；审读列出的疑似不值得做的功能，主对话交付前逐个定（写出开发量、人工做法、结论），不留给 Dk。
+
+## 抓到的判定（考试用）
+数据类截图只有表格与数字；或材料里有审读已标出、主对话未定结论的疑似功能；或同一信息只给一种展示而 Dk 已要两种，判不通过。

diff --git a/弹窗标签推送系统/规则与交接/判例库/索引.md b/弹窗标签推送系统/规则与交接/判例库/索引.md
@@ -59,6 +59,7 @@
 | [47](判例_47_说明句交代阅读边界.md) | 需求评审版用「之后没有其他内容」「到此结束」交代阅读边界 | 结构与版面 | 10/19 |
 | [48](判例_48_一次性接入做成后台功能.md) | 把一次性、由 RD 实际动手的写死内容接入做成后台功能（迁入按钮、迁移记录、放量、对账、切回），没比开发成本与人工做法 | 方案内容 | 10/19 |
 | [49](判例_49_新增展示块只和目录比.md) | 新增开屏结构图只和侧栏目录比、没和正文第一页比，现有系统去向、两层、共用能力两处各写一遍 | 结构与版面 | 10/19 |
+| [50](判例_50_展示形式沿用旧稿与疑似功能未定.md) | 展示形式沿用旧稿（数据用表、结构一种、规则平铺），审读标出的疑似不值得功能留着没定 | 原型与评审材料 | 10/20 |
 
 编号按建库顺序，不代表先后或轻重。
 
